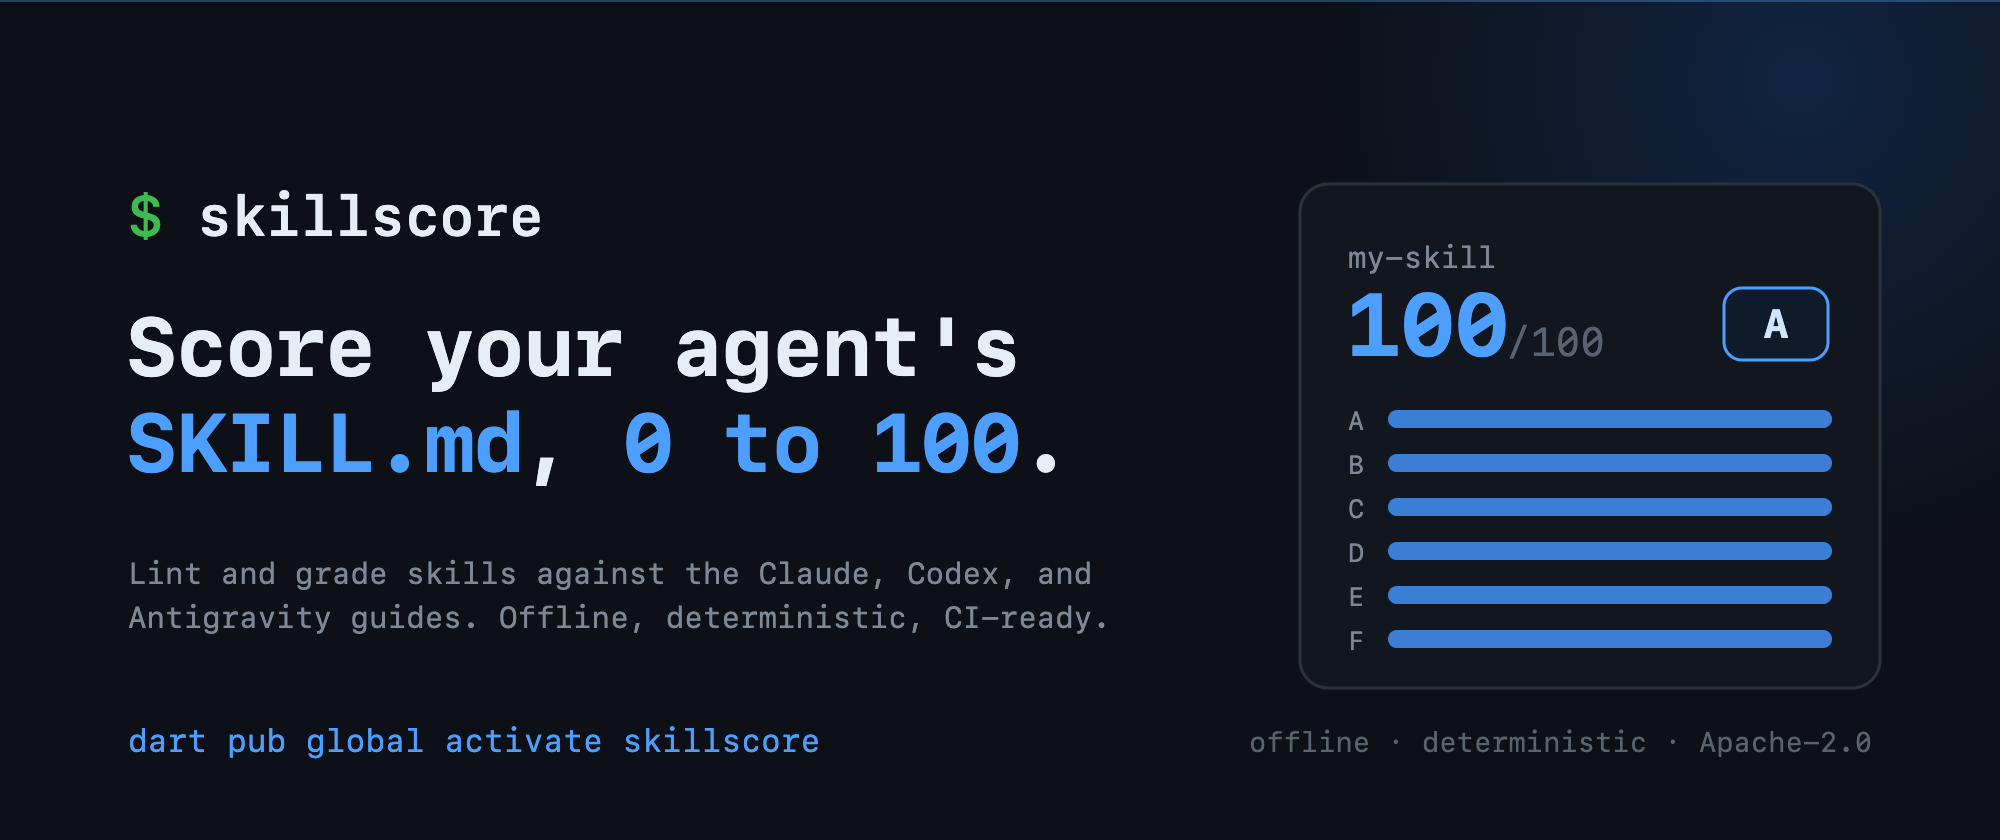
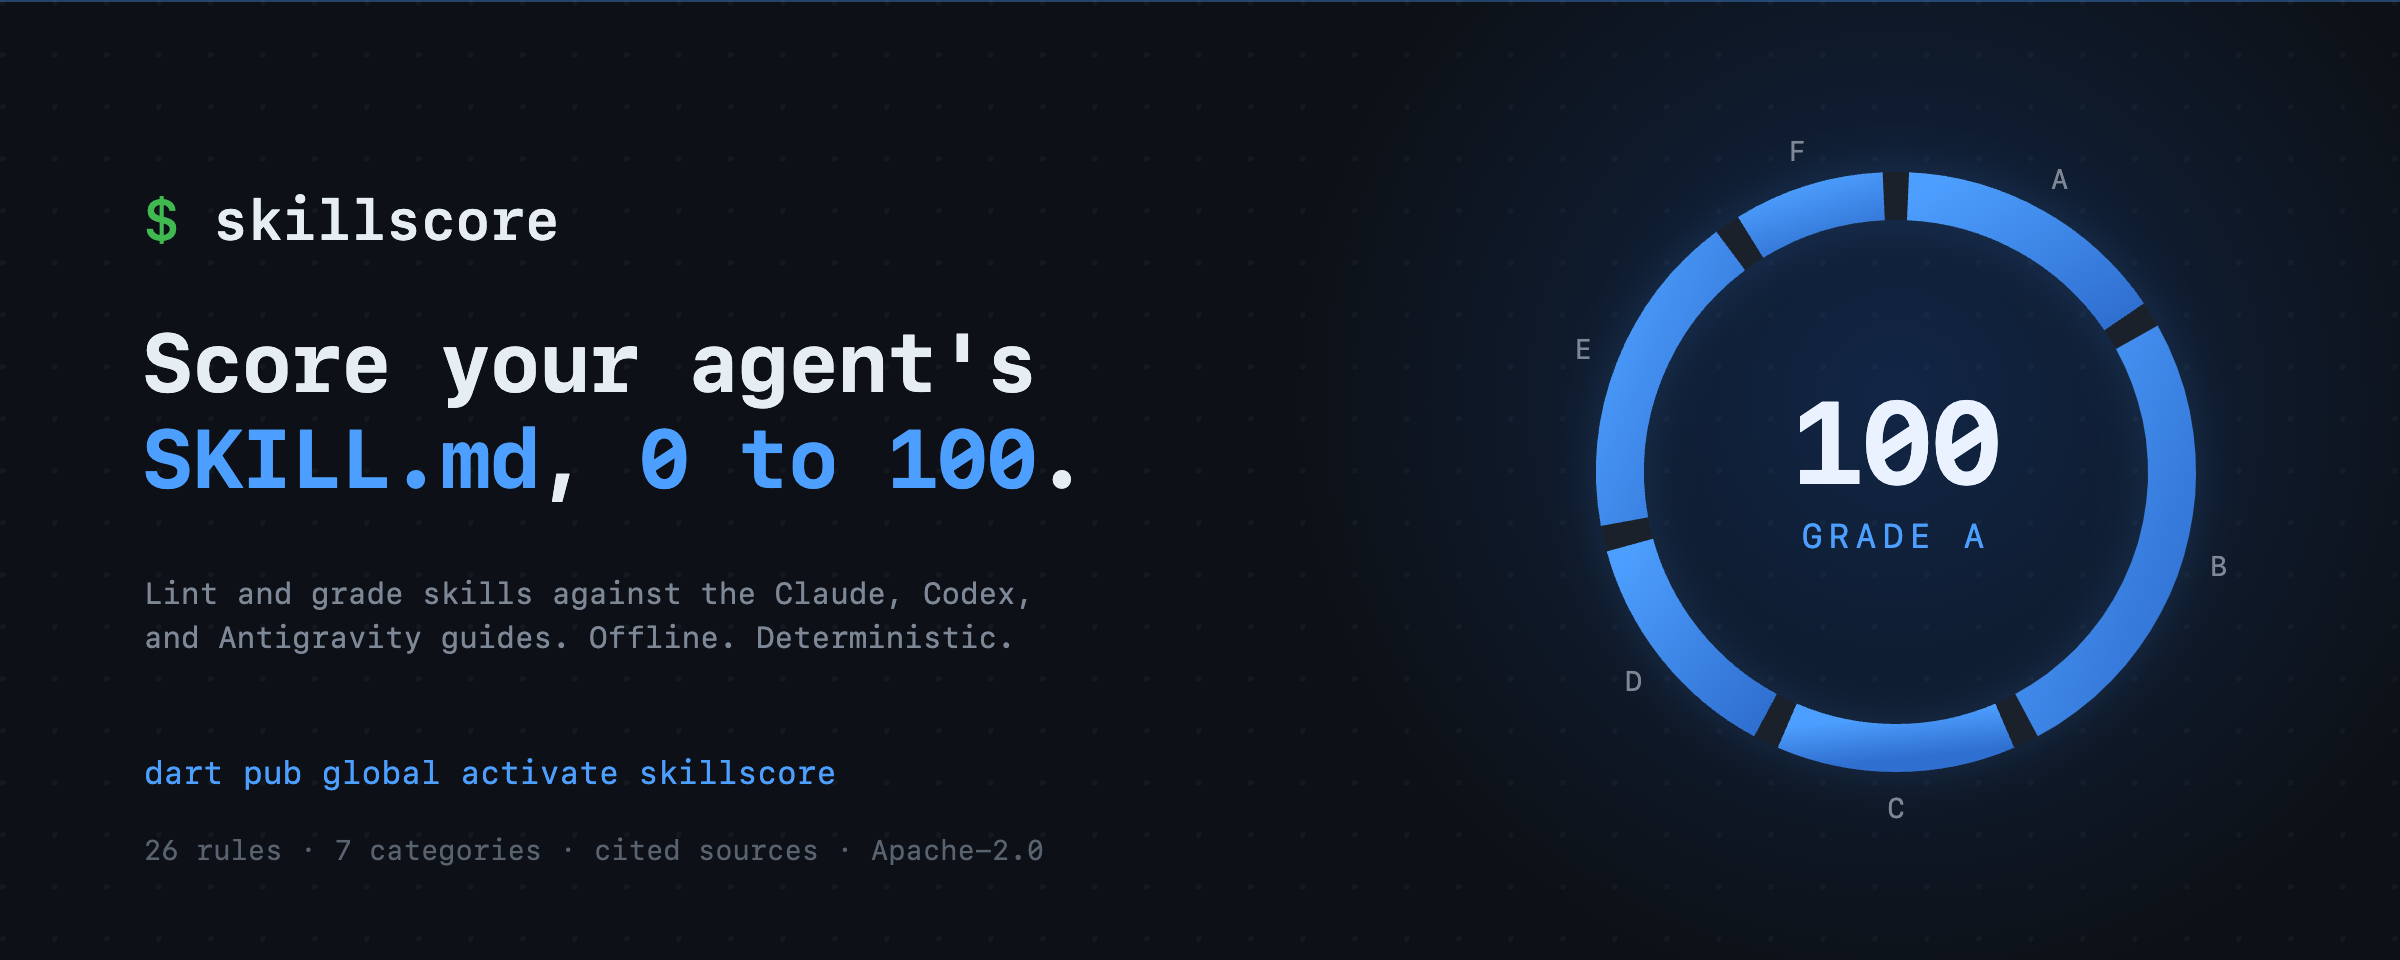
docs: new cover hero — radial rubric ring
Replaces the scorecard-card cover with a distinctive hero: a radial rubric
ring where each of the six positive categories is an arc segment sized by
its point weight (B widest at 28, F narrowest at 10). A full blue ring is a
perfect score; the center reads 100 / GRADE A. Adds a dot-grid texture, a
soft ring halo, and a footer line. Ties the cover directly to the rubric
diagram and the rest of the dark / monospace / blue-accent family.

Generated by tool/gen_cover.py (arc geometry is computed). Rendered to
cover.png at 2x; degrades to a full ring when animations are unavailable.

diff --git a/tool/gen_cover.py b/tool/gen_cover.py
@@ -1,0 +1,124 @@
+#!/usr/bin/env python3
+"""Generate the skillscore cover banner: a radial rubric ring hero in the
+dark / monospace / blue-accent house style. Each ring segment is a rubric
+category, sized by its point weight; a full blue ring is a perfect score."""
+import math
+
+W, H = 1200, 480
+CX, CY = 948, 236          # ring center (right side)
+R = 138                    # mid radius of the donut
+TH = 24                    # ring thickness
+GAP = 5.0                  # degrees of gap between segments
+
+# rubric categories A..F with point weights (the positive total = 105)
+SEGS = [("A", 17), ("B", 28), ("C", 15), ("D", 15), ("E", 20), ("F", 10)]
+TOTAL = sum(w for _, w in SEGS)
+
+def pt(angle_deg, radius=R):
+    a = math.radians(angle_deg)
+    return (CX + radius * math.cos(a), CY + radius * math.sin(a))
+
+def arc_path(a0, a1, radius=R):
+    x0, y0 = pt(a0, radius)
+    x1, y1 = pt(a1, radius)
+    large = 1 if (a1 - a0) % 360 > 180 else 0
+    return f"M {x0:.2f} {y0:.2f} A {radius} {radius} 0 {large} 1 {x1:.2f} {y1:.2f}"
+
+segments = []
+labels = []
+cursor = -90.0  # start at top, go clockwise
+for i, (letter, w) in enumerate(SEGS):
+    span = w / TOTAL * 360.0
+    a0 = cursor + GAP / 2
+    a1 = cursor + span - GAP / 2
+    mid = (a0 + a1) / 2
+    length = math.radians(a1 - a0) * R           # stroke length for draw anim
+    segments.append((i, arc_path(a0, a1), length))
+    lx, ly = pt(mid, R + TH / 2 + 18)
+    labels.append((letter, lx, ly))
+    cursor += span
+
+seg_svg = []
+for i, d, length in segments:
+    seg_svg.append(
+        f'    <path class="seg s{i}" d="{d}" stroke-dasharray="{length:.1f}" '
+        f'stroke-dashoffset="0" style="--len:{length:.1f}"/>'
+    )
+seg_svg = "\n".join(seg_svg)
+
+lab_svg = "\n".join(
+    f'    <text class="rlab" x="{x:.1f}" y="{y+5:.1f}" text-anchor="middle">{ltr}</text>'
+    for ltr, x, y in labels
+)
+
+# per-segment draw-in delays
+delays = "\n".join(
+    f"      .s{i}{{animation-delay:{0.25 + i*0.11:.2f}s}}" for i in range(len(SEGS))
+)
+
+svg = f'''<svg width="{W}" height="{H}" viewBox="0 0 {W} {H}" xmlns="http://www.w3.org/2000/svg" font-family="'SFMono-Regular','SF Mono','JetBrains Mono',Menlo,Consolas,'DejaVu Sans Mono',monospace">
+  <defs>
+    <radialGradient id="glow" cx="0.5" cy="0.5" r="0.5">
+      <stop offset="0" stop-color="#1f6feb" stop-opacity="0.22"/>
+      <stop offset="1" stop-color="#1f6feb" stop-opacity="0"/>
+    </radialGradient>
+    <linearGradient id="ring" x1="0" y1="0" x2="1" y2="1">
+      <stop offset="0" stop-color="#4d9fff"/>
+      <stop offset="1" stop-color="#2f6fd0"/>
+    </linearGradient>
+    <pattern id="dots" width="26" height="26" patternUnits="userSpaceOnUse">
+      <circle cx="1.4" cy="1.4" r="1.4" fill="#5a6472" fill-opacity="0.09"/>
+    </pattern>
+    <filter id="ringglow" x="-40%" y="-40%" width="180%" height="180%">
+      <feGaussianBlur stdDeviation="11"/>
+    </filter>
+    <style>
+      .prompt{{fill:#3fb950}} .word{{fill:#e6edf3}} .cursor{{fill:#2f3845}}
+      .h{{fill:#e6edf3;font-size:41px;font-weight:700;letter-spacing:-0.5px}}
+      .acc{{fill:#4d9fff}}
+      .sub{{fill:#7d8795;font-size:15px}}
+      .cta{{fill:#4d9fff;font-size:16px}}
+      .foot{{fill:#59626f;font-size:14px}}
+      .track{{fill:none;stroke:#1a212b;stroke-width:{TH}}}
+      .seg{{fill:none;stroke:url(#ring);stroke-width:{TH};stroke-linecap:butt;
+            animation:draw 1.1s cubic-bezier(.2,.7,.2,1) both}}
+      .score{{fill:#eaf2ff;font-size:58px;font-weight:700;letter-spacing:-1px}}
+      .grade{{fill:#4d9fff;font-size:17px;letter-spacing:3px}}
+      .rlab{{fill:#7d8795;font-size:14px}}
+      .blink{{animation:blink 1.1s steps(1) infinite}}
+      @keyframes draw{{from{{stroke-dashoffset:var(--len)}}to{{stroke-dashoffset:0}}}}
+      @keyframes blink{{0%,50%{{opacity:1}}51%,100%{{opacity:0}}}}
+{delays}
+    </style>
+  </defs>
+
+  <rect width="{W}" height="{H}" fill="#0d1117"/>
+  <rect width="{W}" height="{H}" fill="url(#dots)"/>
+  <circle cx="{CX}" cy="200" r="300" fill="url(#glow)"/>
+  <line x1="0" y1="0.5" x2="{W}" y2="0.5" stroke="#4d9fff" stroke-opacity="0.35" stroke-width="1"/>
+
+  <!-- LEFT: wordmark, headline, tagline, install -->
+  <text x="72" y="120" font-size="28" font-weight="600"><tspan class="prompt">$ </tspan><tspan class="word">skillscore</tspan><tspan class="cursor blink"> _</tspan></text>
+
+  <text class="h" x="71" y="196">Score your agent's</text>
+  <text class="h" x="71" y="244"><tspan class="acc">SKILL.md</tspan>, <tspan class="acc">0 to 100</tspan>.</text>
+
+  <text class="sub" x="72" y="302">Lint and grade skills against the Claude, Codex,</text>
+  <text class="sub" x="72" y="324">and Antigravity guides. Offline. Deterministic.</text>
+
+  <text class="cta" x="72" y="392">dart pub global activate skillscore</text>
+  <text class="foot" x="72" y="430">26 rules &#183; 7 categories &#183; cited sources &#183; Apache-2.0</text>
+
+  <!-- HERO: radial rubric ring -->
+  <circle cx="{CX}" cy="{CY}" r="{R}" fill="none" stroke="#4d9fff" stroke-width="{TH}" opacity="0.16" filter="url(#ringglow)"/>
+  <circle class="track" cx="{CX}" cy="{CY}" r="{R}"/>
+{seg_svg}
+{lab_svg}
+  <text class="score" x="{CX}" y="{CY+6}" text-anchor="middle">100</text>
+  <text class="grade" x="{CX}" y="{CY+38}" text-anchor="middle">GRADE A</text>
+</svg>
+'''
+
+with open("docs/assets/cover.svg", "w") as f:
+    f.write(svg)
+print("wrote docs/assets/cover.svg")

diff --git a/README.md b/README.md
@@ -1,7 +1,7 @@
 # skillscore
 
 <p align="center">
-  <img src="https://raw.githubusercontent.com/sayed3li97/skillscore/main/docs/assets/cover.png" alt="skillscore: score your AI agent's SKILL.md 0 to 100 against the Claude, Codex, and Antigravity authoring guides" width="100%">
+  <img src="https://raw.githubusercontent.com/sayed3li97/skillscore/main/docs/assets/cover.png" alt="skillscore cover: score your agent's SKILL.md 0 to 100. A radial rubric ring shows a perfect score of 100, grade A, formed by six weighted category segments, in a dark monospace blue-accent theme" width="100%">
 </p>
 
 [![CI](https://github.com/sayed3li97/skillscore/actions/workflows/ci.yml/badge.svg)](https://github.com/sayed3li97/skillscore/actions/workflows/ci.yml)